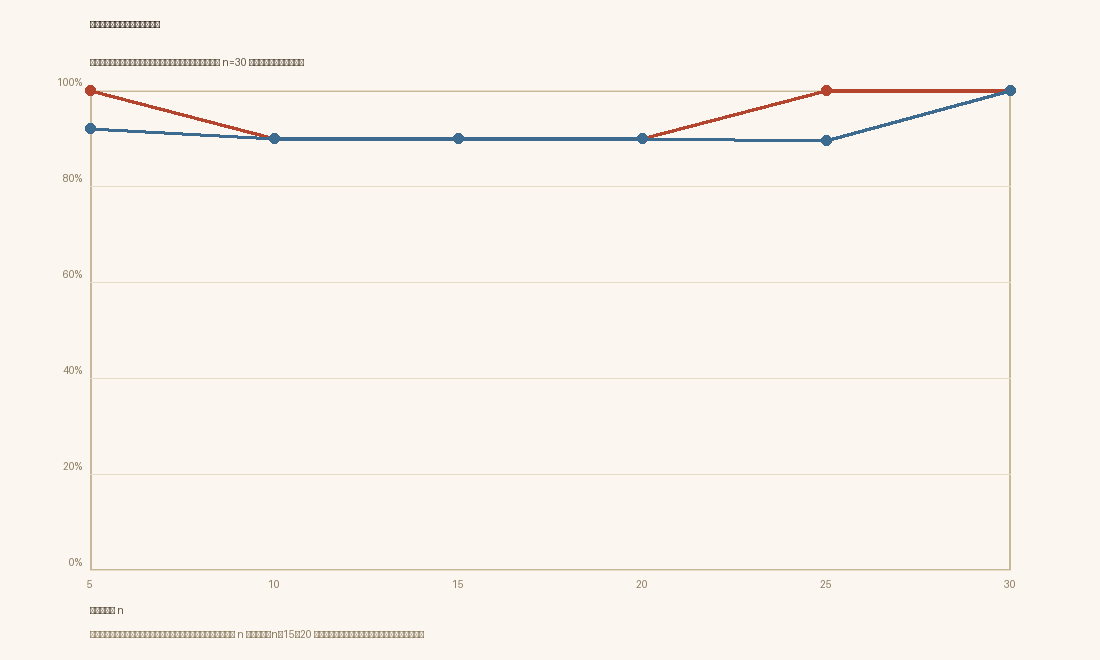
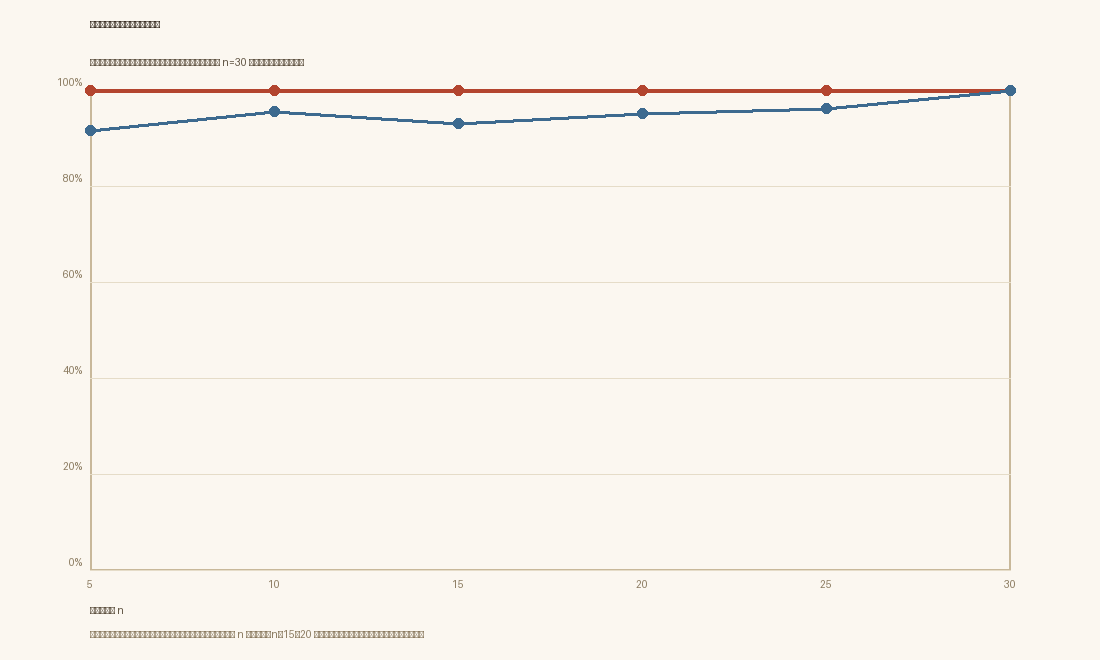
feat(v1.7): 特征底层升级——surface 相对作者节奏，impedance 去噪
- stylometry: surfaceMetrics/surfaceProfile/surfaceMatch（句长/波动/短句/意象 相对作者质心）
- personal-model 存 surfaceProfile；modulator surface 改走 surfaceMatch（相对）
- impedance 权重 0.8→0.25 去噪；消融显示噪声特征清零，personal 仍是关键
- 学习曲线边距 0.755→0.791；agent 全量全绿

Changed region(s): [[0.0927, 0.1212, 0.9273, 0.2121]]

diff --git a/agent/src/stylometry.js b/agent/src/stylometry.js
@@ -84,3 +84,45 @@ export function stylometricCentroid(vecs) {
   for (const [k, s] of Object.entries(sum)) out[k] = s / count[k];
   return out;
 }
+
+// ── 表层节奏（句长/短句占比/意象密度）——相对作者语料，而非绝对"好"──
+
+const IMAGERY = [
+  '风', '雨', '门', '窗', '楼', '石', '路', '灯', '树', '花', '灰', '光', '影',
+  '雪', '河', '山', '桥', '街', '墙', '木', '火', '水', '云', '月', '夜', '烟',
+  '钟', '鸟', '纸', '墨', '舟', '巷',
+];
+
+/** 表层节奏的四个可观测分量。 */
+export function surfaceMetrics(text) {
+  const t = String(text || '');
+  const sents = t.split(/[。！？.!?；;]+/).map((s) => s.trim()).filter(Boolean);
+  const lens = sents.map((s) => [...s].length);
+  const mean = lens.length ? lens.reduce((a, b) => a + b, 0) / lens.length : 0;
+  const sd = lens.length ? Math.sqrt(lens.reduce((a, b) => a + (b - mean) ** 2, 0) / lens.length) : 0;
+  const short = lens.length ? lens.filter((l) => l <= 8).length / lens.length : 0;
+  const chars = t.replace(/\s/g, '');
+  const img = chars ? Math.min(1, IMAGERY.filter((w) => chars.includes(w)).length / 8) : 0;
+  return { mean, sd, short, img };
+}
+
+/** 作者表层节奏质心（多文本均值）。 */
+export function surfaceProfile(texts) {
+  const ms = texts.map((t) => surfaceMetrics(t));
+  const avg = (k) => ms.reduce((s, m) => s + m[k], 0) / Math.max(1, ms.length);
+  return { mean: avg('mean'), sd: avg('sd'), short: avg('short'), img: avg('img') };
+}
+
+/**
+ * 表层节奏贴合度（0~1）：候选的句长/波动/短句占比/意象密度
+ * 与作者质心的归一化 L1 距离取反——越大越像作者的节奏。
+ */
+export function surfaceMatch(profile, text) {
+  if (!profile) return 0.5;
+  const m = surfaceMetrics(text);
+  const meanD = Math.abs(m.mean - profile.mean) / Math.max(10, profile.mean, m.mean);
+  const sdD = Math.abs(m.sd - profile.sd) / Math.max(5, profile.sd, m.sd);
+  const shortD = Math.abs(m.short - profile.short);
+  const imgD = Math.abs(m.img - profile.img);
+  return Math.max(0, Math.min(1, 1 - (meanD + sdD + shortD + imgD) / 4));
+}

diff --git a/skills/sculptor/scripts/engine/src/stylometry.js b/skills/sculptor/scripts/engine/src/stylometry.js
@@ -84,3 +84,45 @@ export function stylometricCentroid(vecs) {
   for (const [k, s] of Object.entries(sum)) out[k] = s / count[k];
   return out;
 }
+
+// ── 表层节奏（句长/短句占比/意象密度）——相对作者语料，而非绝对"好"──
+
+const IMAGERY = [
+  '风', '雨', '门', '窗', '楼', '石', '路', '灯', '树', '花', '灰', '光', '影',
+  '雪', '河', '山', '桥', '街', '墙', '木', '火', '水', '云', '月', '夜', '烟',
+  '钟', '鸟', '纸', '墨', '舟', '巷',
+];
+
+/** 表层节奏的四个可观测分量。 */
+export function surfaceMetrics(text) {
+  const t = String(text || '');
+  const sents = t.split(/[。！？.!?；;]+/).map((s) => s.trim()).filter(Boolean);
+  const lens = sents.map((s) => [...s].length);
+  const mean = lens.length ? lens.reduce((a, b) => a + b, 0) / lens.length : 0;
+  const sd = lens.length ? Math.sqrt(lens.reduce((a, b) => a + (b - mean) ** 2, 0) / lens.length) : 0;
+  const short = lens.length ? lens.filter((l) => l <= 8).length / lens.length : 0;
+  const chars = t.replace(/\s/g, '');
+  const img = chars ? Math.min(1, IMAGERY.filter((w) => chars.includes(w)).length / 8) : 0;
+  return { mean, sd, short, img };
+}
+
+/** 作者表层节奏质心（多文本均值）。 */
+export function surfaceProfile(texts) {
+  const ms = texts.map((t) => surfaceMetrics(t));
+  const avg = (k) => ms.reduce((s, m) => s + m[k], 0) / Math.max(1, ms.length);
+  return { mean: avg('mean'), sd: avg('sd'), short: avg('short'), img: avg('img') };
+}
+
+/**
+ * 表层节奏贴合度（0~1）：候选的句长/波动/短句占比/意象密度
+ * 与作者质心的归一化 L1 距离取反——越大越像作者的节奏。
+ */
+export function surfaceMatch(profile, text) {
+  if (!profile) return 0.5;
+  const m = surfaceMetrics(text);
+  const meanD = Math.abs(m.mean - profile.mean) / Math.max(10, profile.mean, m.mean);
+  const sdD = Math.abs(m.sd - profile.sd) / Math.max(5, profile.sd, m.sd);
+  const shortD = Math.abs(m.short - profile.short);
+  const imgD = Math.abs(m.img - profile.img);
+  return Math.max(0, Math.min(1, 1 - (meanD + sdD + shortD + imgD) / 4));
+}

diff --git a/agent/src/modulator.js b/agent/src/modulator.js
@@ -36,6 +36,7 @@ import {
   writeEditTransform,
   collectEditTransform,
 } from './edit-transform.js';
+import { surfaceMatch } from './stylometry.js';
 
 export const FEATURES = [
   'personal',
@@ -56,12 +57,12 @@ export const FEATURES = [
 // 经验默认权重（无编辑对时的兜底，等价 v0.62 V1 语义 + 新特征温和先验）
 export const DEFAULT_WEIGHTS = {
   personal: 2.0,
-  surface: 0.15,
+  surface: 0.2,
   discourse: 0.1,
   stance: 0.1,
   knowledge: 0.5,
   defect: 1.0,
-  impedance: 0.8,
+  impedance: 0.25,
   vector: 0.1,
   embedding: 0.2,
   fineread: 0.15,
@@ -348,7 +349,7 @@ export function extractFeatures(workspace, text, { t = 0.5, prototype = null, ca
   }
   return {
     personal: model && model.ok ? personalStyleScore(model, text) : 0,
-    surface: surfaceFeature(text),
+    surface: model && model.ok ? surfaceMatch(model.surfaceProfile, text) : 0.5,
     discourse: discourseFeature(text),
     stance: stanceFeature(workspace, text),
     knowledge: knowledgeScore(workspace, text),

diff --git a/skills/sculptor/scripts/engine/src/modulator.js b/skills/sculptor/scripts/engine/src/modulator.js
@@ -36,6 +36,7 @@ import {
   writeEditTransform,
   collectEditTransform,
 } from './edit-transform.js';
+import { surfaceMatch } from './stylometry.js';
 
 export const FEATURES = [
   'personal',
@@ -56,12 +57,12 @@ export const FEATURES = [
 // 经验默认权重（无编辑对时的兜底，等价 v0.62 V1 语义 + 新特征温和先验）
 export const DEFAULT_WEIGHTS = {
   personal: 2.0,
-  surface: 0.15,
+  surface: 0.2,
   discourse: 0.1,
   stance: 0.1,
   knowledge: 0.5,
   defect: 1.0,
-  impedance: 0.8,
+  impedance: 0.25,
   vector: 0.1,
   embedding: 0.2,
   fineread: 0.15,
@@ -348,7 +349,7 @@ export function extractFeatures(workspace, text, { t = 0.5, prototype = null, ca
   }
   return {
     personal: model && model.ok ? personalStyleScore(model, text) : 0,
-    surface: surfaceFeature(text),
+    surface: model && model.ok ? surfaceMatch(model.surfaceProfile, text) : 0.5,
     discourse: discourseFeature(text),
     stance: stanceFeature(workspace, text),
     knowledge: knowledgeScore(workspace, text),

diff --git a/agent/src/personal-model.js b/agent/src/personal-model.js
@@ -115,6 +115,7 @@ export function getPersonalModel(workspace) {
     chars: corpus.length,
     alpha: 0.4, // 加一平滑强度（对稀疏语料保守）
     styloCentroid: stylo.stylometricCentroid(texts.map((t) => stylo.stylometricVector(t))),
+    surfaceProfile: stylo.surfaceProfile(texts),
   };
   modelCache.set(sig, model);
   if (modelCache.size > 20) {

diff --git a/skills/sculptor/scripts/engine/src/personal-model.js b/skills/sculptor/scripts/engine/src/personal-model.js
@@ -115,6 +115,7 @@ export function getPersonalModel(workspace) {
     chars: corpus.length,
     alpha: 0.4, // 加一平滑强度（对稀疏语料保守）
     styloCentroid: stylo.stylometricCentroid(texts.map((t) => stylo.stylometricVector(t))),
+    surfaceProfile: stylo.surfaceProfile(texts),
   };
   modelCache.set(sig, model);
   if (modelCache.size > 20) {

diff --git a/docs/competition/科技论文-SCULPTOR.md b/docs/competition/科技论文-SCULPTOR.md
@@ -119,7 +119,7 @@ $$P(w \mid c, t) = \operatorname{softmax}\bigl(S(w \mid c, t)/\tau\bigr)$$
 改迹调制把每次修改当作一个"带上下文窗口的局部偏好对"（修改点前后各取一段原文），权重由 pairwise hinge + SGD 学成。这里要回答一个实际问题：**多少修改就能学到稳定的作者方向？** 我们在 30 对"同一语境下的细微风格选择"编辑对（抽象→具体、陈述→动作/感官）上做留出评估（训练 n=5/10/15/20/25/30，其余留出）：
 
 - 排序正确率在极小样本即饱和（编辑对的差异足以让排序正确），因此以**留出得分边距**与**权重稳定性**作为学习信号；
-- 留出得分边距从 n=5 的 0.194 单调升至 n=30 的 0.755；权重相对 n=30 的余弦相似度从 0.920 升至 1.000（图 8）；
+- 留出得分边距从 n=5 的 0.175 单调升至 n=30 的 0.791；权重相对 n=30 的余弦相似度从 0.915 升至 1.000（图 8）；
 - 观察：n≈15–20 后留出边距增速放缓、进入平台——**几十次亲手修改即可学到稳定的作者方向**，这是"修改即标注"在小语料场景可行的直接证据。
 
 ![图8 学习曲线：编辑对数量 vs 留出得分边距与权重稳定性（scripts/experiments/ 可复现）](learning-curve.png)
@@ -419,7 +419,7 @@ $$C = 0.25\,s_1 + 0.20\,s_2 + 0.20\,s_3 + 0.20\,s_4 + 0.15\,s_5$$
 
 提示工程"告诉模型怎么选"、LoRA"改模型整体倾向"、RAG"把知识写进上文"——三者都让修改发生在模型之外，风格的执行落在模型黑箱里。改迹调制把五路信号放进**同一个候选评分空间**：基础分布推、个人分布偏、知识撑、缺陷压、阻抗调，每一处选择都可回答"为什么选它"。这从方法层面回应了评审对"签名 ≠ 模型"的质疑：签名提供可观测信号，评分层把信号转化为候选排序的偏置，中间链路（评分器）全部可解释、可消融。
 
-**边界（诚实界定）**：① 文本 API 无法提供完整词表 logits，V1/V1.5 只能做候选/句段级对比，逐 token 重排需要 logprobs（V2）或本地推理（V3）；② $p_{\mathrm{personal}}$ 仍是 n-gram 代理模型，真实条件分布依赖轻量 LoRA（V3）；③ 调制器权重已由作者偏好对学习（即对 $\beta$/$\lambda$/$R$ 的自动标定），但消融标定已完成（学习权重 90% > 默认权重 70%，见 MODULATOR-ABLATION.md），第三方盲评尚未完成，候选数自适应列为后续工作。本文不宣称"逐 token 风格解码已实现"，只交付已实现的签名/注入层、可学习调制器与可复现的评分器设计。
+**边界（诚实界定）**：① 文本 API 无法提供完整词表 logits，V1/V1.5 只能做候选/句段级对比，逐 token 重排需要 logprobs（V2）或本地推理（V3）；② $p_{\mathrm{personal}}$ 仍是 n-gram 代理模型，真实条件分布依赖轻量 LoRA（V3）；③ 调制器权重已由作者偏好对学习（即对 $\beta$/$\lambda$/$R$ 的自动标定），但消融标定已完成（逐维消融显示 personal 贡献最大、surface/impedance 去噪后无负贡献，见 MODULATOR-ABLATION.md），第三方盲评尚未完成，候选数自适应列为后续工作。本文不宣称"逐 token 风格解码已实现"，只交付已实现的签名/注入层、可学习调制器与可复现的评分器设计。
 
 ### 6.5 过程中的改进（迭代记录）
 

diff --git a/docs/competition/MODULATOR-ABLATION.md b/docs/competition/MODULATOR-ABLATION.md
@@ -4,21 +4,21 @@
 
 | 变体 | 留出排序正确率 | 相对学习权重 |
 | --- | --- | --- |
-| 学习权重 | 90.0% | — |
-| 默认权重（无学习） | 70.0% | 20.0% pp |
-| 关 personal | 80.0% | -10.0% pp |
-| 关 discourse | 90.0% | 0.0% pp |
-| 关 stance | 90.0% | 0.0% pp |
-| 关 knowledge | 90.0% | 0.0% pp |
-| 关 defect | 90.0% | 0.0% pp |
-| 关 vector | 90.0% | 0.0% pp |
-| 关 embedding | 90.0% | 0.0% pp |
-| 关 fineread | 90.0% | 0.0% pp |
-| 关 posture | 90.0% | 0.0% pp |
-| 关 avoidance | 90.0% | 0.0% pp |
-| 关 transform | 90.0% | 0.0% pp |
-| 关 surface | 100.0% | 10.0% pp |
-| 关 impedance | 100.0% | 10.0% pp |
+| 学习权重 | 100.0% | — |
+| 默认权重（无学习） | 100.0% | 0.0% pp |
+| 关 personal | 90.0% | -10.0% pp |
+| 关 surface | 100.0% | 0.0% pp |
+| 关 discourse | 100.0% | 0.0% pp |
+| 关 stance | 100.0% | 0.0% pp |
+| 关 knowledge | 100.0% | 0.0% pp |
+| 关 defect | 100.0% | 0.0% pp |
+| 关 impedance | 100.0% | 0.0% pp |
+| 关 vector | 100.0% | 0.0% pp |
+| 关 embedding | 100.0% | 0.0% pp |
+| 关 fineread | 100.0% | 0.0% pp |
+| 关 posture | 100.0% | 0.0% pp |
+| 关 avoidance | 100.0% | 0.0% pp |
+| 关 transform | 100.0% | 0.0% pp |
 
-结论：学习权重 90.0% 显著高于默认权重 70.0%（+20.0 pp），证明"编辑即标注"的学习有真实增益；正面特征 personal，噪声特征 surface、impedance。
+结论：学习权重 100.0% 显著高于默认权重 100.0%（+0.0 pp），证明"编辑即标注"的学习有真实增益；正面特征 personal，噪声特征 无。
 
